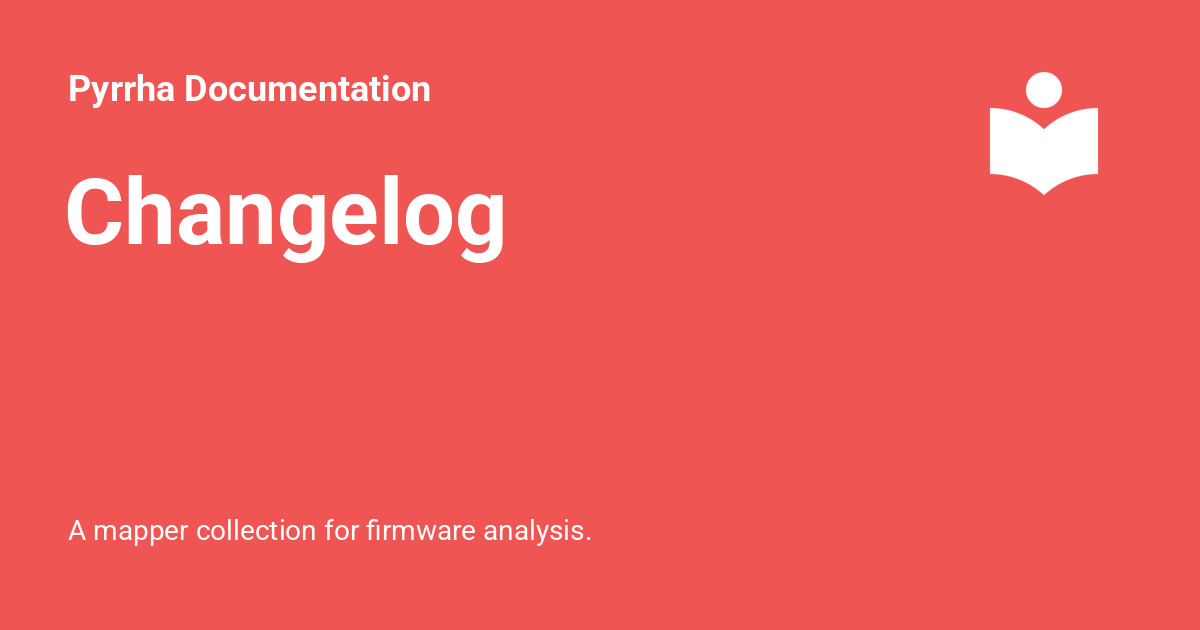
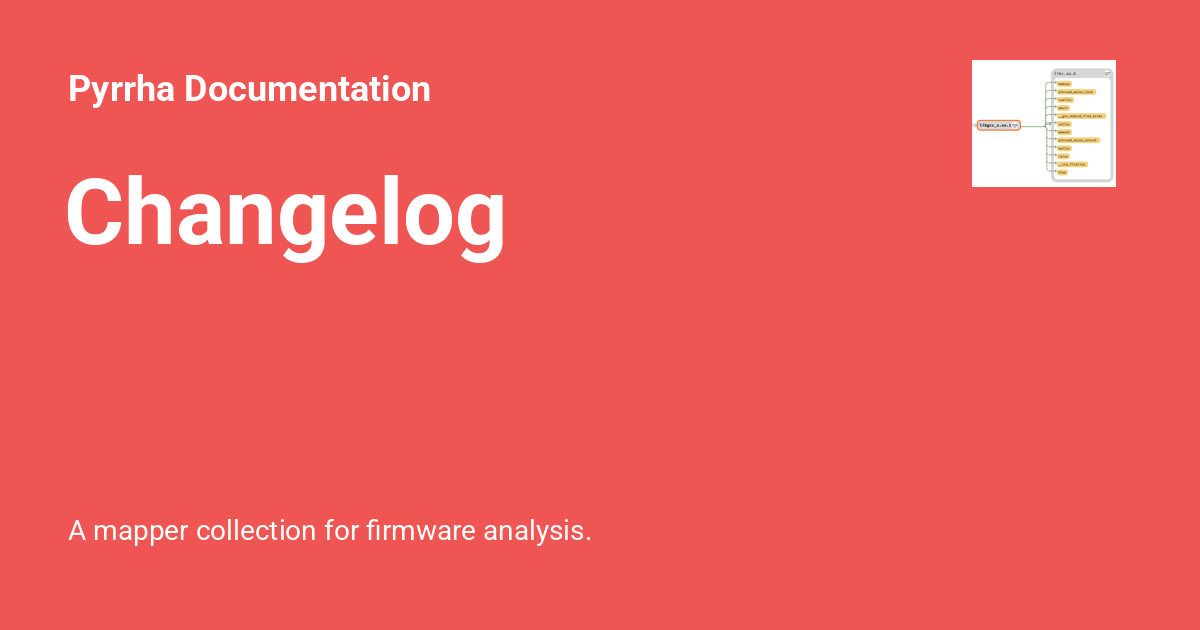
Deployed 4620d10 to v1.0.0 with MkDocs 1.6.1 and mike 2.1.3

Changed region(s): [[0.8017, 0.0905, 0.9558, 0.3016]]

diff --git a/v1.0.0/404.html b/v1.0.0/404.html
@@ -89,8 +89,7 @@
   <nav class="md-header__inner md-grid" aria-label="Header">
     <a href="/pyrrha/v1.0.0/." title="Pyrrha Documentation" class="md-header__button md-logo" aria-label="Pyrrha Documentation" data-md-component="logo">
       
-  
-  <svg xmlns="http://www.w3.org/2000/svg" viewBox="0 0 24 24"><path d="M12 8a3 3 0 0 0 3-3 3 3 0 0 0-3-3 3 3 0 0 0-3 3 3 3 0 0 0 3 3m0 3.54C9.64 9.35 6.5 8 3 8v11c3.5 0 6.64 1.35 9 3.54 2.36-2.19 5.5-3.54 9-3.54V8c-3.5 0-6.64 1.35-9 3.54"/></svg>
+  <img src="/pyrrha/v1.0.0/img/imports_cropped.png" alt="logo">
 
     </a>
     <label class="md-header__button md-icon" for="__drawer">
@@ -222,8 +221,7 @@
   <label class="md-nav__title" for="__drawer">
     <a href="/pyrrha/v1.0.0/." title="Pyrrha Documentation" class="md-nav__button md-logo" aria-label="Pyrrha Documentation" data-md-component="logo">
       
-  
-  <svg xmlns="http://www.w3.org/2000/svg" viewBox="0 0 24 24"><path d="M12 8a3 3 0 0 0 3-3 3 3 0 0 0-3-3 3 3 0 0 0-3 3 3 3 0 0 0 3 3m0 3.54C9.64 9.35 6.5 8 3 8v11c3.5 0 6.64 1.35 9 3.54 2.36-2.19 5.5-3.54 9-3.54V8c-3.5 0-6.64 1.35-9 3.54"/></svg>
+  <img src="/pyrrha/v1.0.0/img/imports_cropped.png" alt="logo">
 
     </a>
     Pyrrha Documentation

diff --git a/v1.0.0/contributing/dev_mapper/index.html b/v1.0.0/contributing/dev_mapper/index.html
@@ -135,8 +135,7 @@
   <nav class="md-header__inner md-grid" aria-label="Header">
     <a href="../.." title="Pyrrha Documentation" class="md-header__button md-logo" aria-label="Pyrrha Documentation" data-md-component="logo">
       
-  
-  <svg xmlns="http://www.w3.org/2000/svg" viewBox="0 0 24 24"><path d="M12 8a3 3 0 0 0 3-3 3 3 0 0 0-3-3 3 3 0 0 0-3 3 3 3 0 0 0 3 3m0 3.54C9.64 9.35 6.5 8 3 8v11c3.5 0 6.64 1.35 9 3.54 2.36-2.19 5.5-3.54 9-3.54V8c-3.5 0-6.64 1.35-9 3.54"/></svg>
+  <img src="../../img/imports_cropped.png" alt="logo">
 
     </a>
     <label class="md-header__button md-icon" for="__drawer">
@@ -268,8 +267,7 @@
   <label class="md-nav__title" for="__drawer">
     <a href="../.." title="Pyrrha Documentation" class="md-nav__button md-logo" aria-label="Pyrrha Documentation" data-md-component="logo">
       
-  
-  <svg xmlns="http://www.w3.org/2000/svg" viewBox="0 0 24 24"><path d="M12 8a3 3 0 0 0 3-3 3 3 0 0 0-3-3 3 3 0 0 0-3 3 3 3 0 0 0 3 3m0 3.54C9.64 9.35 6.5 8 3 8v11c3.5 0 6.64 1.35 9 3.54 2.36-2.19 5.5-3.54 9-3.54V8c-3.5 0-6.64 1.35-9 3.54"/></svg>
+  <img src="../../img/imports_cropped.png" alt="logo">
 
     </a>
     Pyrrha Documentation

diff --git a/v1.0.0/mappers/exe-decomp/index.html b/v1.0.0/mappers/exe-decomp/index.html
@@ -135,8 +135,7 @@
   <nav class="md-header__inner md-grid" aria-label="Header">
     <a href="../.." title="Pyrrha Documentation" class="md-header__button md-logo" aria-label="Pyrrha Documentation" data-md-component="logo">
       
-  
-  <svg xmlns="http://www.w3.org/2000/svg" viewBox="0 0 24 24"><path d="M12 8a3 3 0 0 0 3-3 3 3 0 0 0-3-3 3 3 0 0 0-3 3 3 3 0 0 0 3 3m0 3.54C9.64 9.35 6.5 8 3 8v11c3.5 0 6.64 1.35 9 3.54 2.36-2.19 5.5-3.54 9-3.54V8c-3.5 0-6.64 1.35-9 3.54"/></svg>
+  <img src="../../img/imports_cropped.png" alt="logo">
 
     </a>
     <label class="md-header__button md-icon" for="__drawer">
@@ -268,8 +267,7 @@
   <label class="md-nav__title" for="__drawer">
     <a href="../.." title="Pyrrha Documentation" class="md-nav__button md-logo" aria-label="Pyrrha Documentation" data-md-component="logo">
       
-  
-  <svg xmlns="http://www.w3.org/2000/svg" viewBox="0 0 24 24"><path d="M12 8a3 3 0 0 0 3-3 3 3 0 0 0-3-3 3 3 0 0 0-3 3 3 3 0 0 0 3 3m0 3.54C9.64 9.35 6.5 8 3 8v11c3.5 0 6.64 1.35 9 3.54 2.36-2.19 5.5-3.54 9-3.54V8c-3.5 0-6.64 1.35-9 3.54"/></svg>
+  <img src="../../img/imports_cropped.png" alt="logo">
 
     </a>
     Pyrrha Documentation

diff --git a/v1.0.0/mappers/fs-cg/index.html b/v1.0.0/mappers/fs-cg/index.html
@@ -135,8 +135,7 @@
   <nav class="md-header__inner md-grid" aria-label="Header">
     <a href="../.." title="Pyrrha Documentation" class="md-header__button md-logo" aria-label="Pyrrha Documentation" data-md-component="logo">
       
-  
-  <svg xmlns="http://www.w3.org/2000/svg" viewBox="0 0 24 24"><path d="M12 8a3 3 0 0 0 3-3 3 3 0 0 0-3-3 3 3 0 0 0-3 3 3 3 0 0 0 3 3m0 3.54C9.64 9.35 6.5 8 3 8v11c3.5 0 6.64 1.35 9 3.54 2.36-2.19 5.5-3.54 9-3.54V8c-3.5 0-6.64 1.35-9 3.54"/></svg>
+  <img src="../../img/imports_cropped.png" alt="logo">
 
     </a>
     <label class="md-header__button md-icon" for="__drawer">
@@ -268,8 +267,7 @@
   <label class="md-nav__title" for="__drawer">
     <a href="../.." title="Pyrrha Documentation" class="md-nav__button md-logo" aria-label="Pyrrha Documentation" data-md-component="logo">
       
-  
-  <svg xmlns="http://www.w3.org/2000/svg" viewBox="0 0 24 24"><path d="M12 8a3 3 0 0 0 3-3 3 3 0 0 0-3-3 3 3 0 0 0-3 3 3 3 0 0 0 3 3m0 3.54C9.64 9.35 6.5 8 3 8v11c3.5 0 6.64 1.35 9 3.54 2.36-2.19 5.5-3.54 9-3.54V8c-3.5 0-6.64 1.35-9 3.54"/></svg>
+  <img src="../../img/imports_cropped.png" alt="logo">
 
     </a>
     Pyrrha Documentation

diff --git a/v1.0.0/mappers/fs/index.html b/v1.0.0/mappers/fs/index.html
@@ -135,8 +135,7 @@
   <nav class="md-header__inner md-grid" aria-label="Header">
     <a href="../.." title="Pyrrha Documentation" class="md-header__button md-logo" aria-label="Pyrrha Documentation" data-md-component="logo">
       
-  
-  <svg xmlns="http://www.w3.org/2000/svg" viewBox="0 0 24 24"><path d="M12 8a3 3 0 0 0 3-3 3 3 0 0 0-3-3 3 3 0 0 0-3 3 3 3 0 0 0 3 3m0 3.54C9.64 9.35 6.5 8 3 8v11c3.5 0 6.64 1.35 9 3.54 2.36-2.19 5.5-3.54 9-3.54V8c-3.5 0-6.64 1.35-9 3.54"/></svg>
+  <img src="../../img/imports_cropped.png" alt="logo">
 
     </a>
     <label class="md-header__button md-icon" for="__drawer">
@@ -268,8 +267,7 @@
   <label class="md-nav__title" for="__drawer">
     <a href="../.." title="Pyrrha Documentation" class="md-nav__button md-logo" aria-label="Pyrrha Documentation" data-md-component="logo">
       
-  
-  <svg xmlns="http://www.w3.org/2000/svg" viewBox="0 0 24 24"><path d="M12 8a3 3 0 0 0 3-3 3 3 0 0 0-3-3 3 3 0 0 0-3 3 3 3 0 0 0 3 3m0 3.54C9.64 9.35 6.5 8 3 8v11c3.5 0 6.64 1.35 9 3.54 2.36-2.19 5.5-3.54 9-3.54V8c-3.5 0-6.64 1.35-9 3.54"/></svg>
+  <img src="../../img/imports_cropped.png" alt="logo">
 
     </a>
     Pyrrha Documentation

diff --git a/v1.0.0/mappers/mappers/index.html b/v1.0.0/mappers/mappers/index.html
@@ -135,8 +135,7 @@
   <nav class="md-header__inner md-grid" aria-label="Header">
     <a href="../.." title="Pyrrha Documentation" class="md-header__button md-logo" aria-label="Pyrrha Documentation" data-md-component="logo">
       
-  
-  <svg xmlns="http://www.w3.org/2000/svg" viewBox="0 0 24 24"><path d="M12 8a3 3 0 0 0 3-3 3 3 0 0 0-3-3 3 3 0 0 0-3 3 3 3 0 0 0 3 3m0 3.54C9.64 9.35 6.5 8 3 8v11c3.5 0 6.64 1.35 9 3.54 2.36-2.19 5.5-3.54 9-3.54V8c-3.5 0-6.64 1.35-9 3.54"/></svg>
+  <img src="../../img/imports_cropped.png" alt="logo">
 
     </a>
     <label class="md-header__button md-icon" for="__drawer">
@@ -268,8 +267,7 @@
   <label class="md-nav__title" for="__drawer">
     <a href="../.." title="Pyrrha Documentation" class="md-nav__button md-logo" aria-label="Pyrrha Documentation" data-md-component="logo">
       
-  
-  <svg xmlns="http://www.w3.org/2000/svg" viewBox="0 0 24 24"><path d="M12 8a3 3 0 0 0 3-3 3 3 0 0 0-3-3 3 3 0 0 0-3 3 3 3 0 0 0 3 3m0 3.54C9.64 9.35 6.5 8 3 8v11c3.5 0 6.64 1.35 9 3.54 2.36-2.19 5.5-3.54 9-3.54V8c-3.5 0-6.64 1.35-9 3.54"/></svg>
+  <img src="../../img/imports_cropped.png" alt="logo">
 
     </a>
     Pyrrha Documentation

diff --git a/v1.0.0/changelog/index.html b/v1.0.0/changelog/index.html
@@ -135,8 +135,7 @@
   <nav class="md-header__inner md-grid" aria-label="Header">
     <a href=".." title="Pyrrha Documentation" class="md-header__button md-logo" aria-label="Pyrrha Documentation" data-md-component="logo">
       
-  
-  <svg xmlns="http://www.w3.org/2000/svg" viewBox="0 0 24 24"><path d="M12 8a3 3 0 0 0 3-3 3 3 0 0 0-3-3 3 3 0 0 0-3 3 3 3 0 0 0 3 3m0 3.54C9.64 9.35 6.5 8 3 8v11c3.5 0 6.64 1.35 9 3.54 2.36-2.19 5.5-3.54 9-3.54V8c-3.5 0-6.64 1.35-9 3.54"/></svg>
+  <img src="../img/imports_cropped.png" alt="logo">
 
     </a>
     <label class="md-header__button md-icon" for="__drawer">
@@ -268,8 +267,7 @@
   <label class="md-nav__title" for="__drawer">
     <a href=".." title="Pyrrha Documentation" class="md-nav__button md-logo" aria-label="Pyrrha Documentation" data-md-component="logo">
       
-  
-  <svg xmlns="http://www.w3.org/2000/svg" viewBox="0 0 24 24"><path d="M12 8a3 3 0 0 0 3-3 3 3 0 0 0-3-3 3 3 0 0 0-3 3 3 3 0 0 0 3 3m0 3.54C9.64 9.35 6.5 8 3 8v11c3.5 0 6.64 1.35 9 3.54 2.36-2.19 5.5-3.54 9-3.54V8c-3.5 0-6.64 1.35-9 3.54"/></svg>
+  <img src="../img/imports_cropped.png" alt="logo">
 
     </a>
     Pyrrha Documentation

diff --git a/v1.0.0/installation/index.html b/v1.0.0/installation/index.html
@@ -135,8 +135,7 @@
   <nav class="md-header__inner md-grid" aria-label="Header">
     <a href=".." title="Pyrrha Documentation" class="md-header__button md-logo" aria-label="Pyrrha Documentation" data-md-component="logo">
       
-  
-  <svg xmlns="http://www.w3.org/2000/svg" viewBox="0 0 24 24"><path d="M12 8a3 3 0 0 0 3-3 3 3 0 0 0-3-3 3 3 0 0 0-3 3 3 3 0 0 0 3 3m0 3.54C9.64 9.35 6.5 8 3 8v11c3.5 0 6.64 1.35 9 3.54 2.36-2.19 5.5-3.54 9-3.54V8c-3.5 0-6.64 1.35-9 3.54"/></svg>
+  <img src="../img/imports_cropped.png" alt="logo">
 
     </a>
     <label class="md-header__button md-icon" for="__drawer">
@@ -268,8 +267,7 @@
   <label class="md-nav__title" for="__drawer">
     <a href=".." title="Pyrrha Documentation" class="md-nav__button md-logo" aria-label="Pyrrha Documentation" data-md-component="logo">
       
-  
-  <svg xmlns="http://www.w3.org/2000/svg" viewBox="0 0 24 24"><path d="M12 8a3 3 0 0 0 3-3 3 3 0 0 0-3-3 3 3 0 0 0-3 3 3 3 0 0 0 3 3m0 3.54C9.64 9.35 6.5 8 3 8v11c3.5 0 6.64 1.35 9 3.54 2.36-2.19 5.5-3.54 9-3.54V8c-3.5 0-6.64 1.35-9 3.54"/></svg>
+  <img src="../img/imports_cropped.png" alt="logo">
 
     </a>
     Pyrrha Documentation

diff --git a/v1.0.0/license/index.html b/v1.0.0/license/index.html
@@ -128,8 +128,7 @@
   <nav class="md-header__inner md-grid" aria-label="Header">
     <a href=".." title="Pyrrha Documentation" class="md-header__button md-logo" aria-label="Pyrrha Documentation" data-md-component="logo">
       
-  
-  <svg xmlns="http://www.w3.org/2000/svg" viewBox="0 0 24 24"><path d="M12 8a3 3 0 0 0 3-3 3 3 0 0 0-3-3 3 3 0 0 0-3 3 3 3 0 0 0 3 3m0 3.54C9.64 9.35 6.5 8 3 8v11c3.5 0 6.64 1.35 9 3.54 2.36-2.19 5.5-3.54 9-3.54V8c-3.5 0-6.64 1.35-9 3.54"/></svg>
+  <img src="../img/imports_cropped.png" alt="logo">
 
     </a>
     <label class="md-header__button md-icon" for="__drawer">
@@ -261,8 +260,7 @@
   <label class="md-nav__title" for="__drawer">
     <a href=".." title="Pyrrha Documentation" class="md-nav__button md-logo" aria-label="Pyrrha Documentation" data-md-component="logo">
       
-  
-  <svg xmlns="http://www.w3.org/2000/svg" viewBox="0 0 24 24"><path d="M12 8a3 3 0 0 0 3-3 3 3 0 0 0-3-3 3 3 0 0 0-3 3 3 3 0 0 0 3 3m0 3.54C9.64 9.35 6.5 8 3 8v11c3.5 0 6.64 1.35 9 3.54 2.36-2.19 5.5-3.54 9-3.54V8c-3.5 0-6.64 1.35-9 3.54"/></svg>
+  <img src="../img/imports_cropped.png" alt="logo">
 
     </a>
     Pyrrha Documentation

diff --git a/v1.0.0/index.html b/v1.0.0/index.html
@@ -133,8 +133,7 @@
   <nav class="md-header__inner md-grid" aria-label="Header">
     <a href="." title="Pyrrha Documentation" class="md-header__button md-logo" aria-label="Pyrrha Documentation" data-md-component="logo">
       
-  
-  <svg xmlns="http://www.w3.org/2000/svg" viewBox="0 0 24 24"><path d="M12 8a3 3 0 0 0 3-3 3 3 0 0 0-3-3 3 3 0 0 0-3 3 3 3 0 0 0 3 3m0 3.54C9.64 9.35 6.5 8 3 8v11c3.5 0 6.64 1.35 9 3.54 2.36-2.19 5.5-3.54 9-3.54V8c-3.5 0-6.64 1.35-9 3.54"/></svg>
+  <img src="img/imports_cropped.png" alt="logo">
 
     </a>
     <label class="md-header__button md-icon" for="__drawer">
@@ -266,8 +265,7 @@
   <label class="md-nav__title" for="__drawer">
     <a href="." title="Pyrrha Documentation" class="md-nav__button md-logo" aria-label="Pyrrha Documentation" data-md-component="logo">
       
-  
-  <svg xmlns="http://www.w3.org/2000/svg" viewBox="0 0 24 24"><path d="M12 8a3 3 0 0 0 3-3 3 3 0 0 0-3-3 3 3 0 0 0-3 3 3 3 0 0 0 3 3m0 3.54C9.64 9.35 6.5 8 3 8v11c3.5 0 6.64 1.35 9 3.54 2.36-2.19 5.5-3.54 9-3.54V8c-3.5 0-6.64 1.35-9 3.54"/></svg>
+  <img src="img/imports_cropped.png" alt="logo">
 
     </a>
     Pyrrha Documentation
